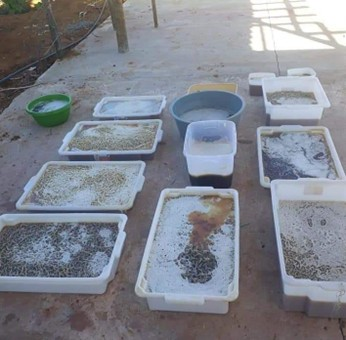
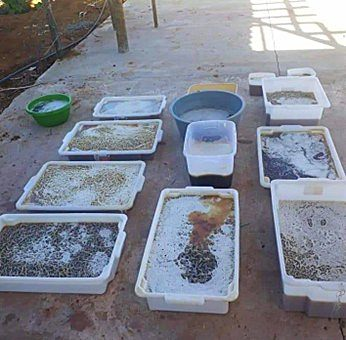
alterções finais no tratamento de imagens

diff --git a/projetos/enfrentamentoaviolencia.html b/projetos/enfrentamentoaviolencia.html
@@ -15,7 +15,7 @@
 <header>
     <div class="container header-container">
         <a href="index.html" class="marca">
-        <img src="img/logo.jpg" alt="Símbolo Espaço Mulher de São Gabriel">
+        <img src="../img/logo.jpg" alt="Símbolo Espaço Mulher de São Gabriel">
         <span class="marca-texto">
         <span class="logo">Espaço Mulher</span>
         <span class="subtitulo">São Gabriel · Ba</span>
@@ -25,7 +25,7 @@
         <nav id="nav">
         <ul class="menu" id="menu">
             <li><button class="menu-fechar" id="menu-fechar" aria-label="Fechar menu">✕</button></li>
-            <li><a href="index.html" class="ativo">Home</a></li>
+            <li><a href="../index.html" class="ativo">Home</a></li>
             <li><a href="subsecoes/quem-somos.html">Quem somos</a></li>
             <li><a href="subsecoes/noticias.html">Notícias</a></li>
             <li><a href="subsecoes/transparencia.html">Transparência</a></li>
@@ -45,7 +45,7 @@
         <div class="projeto-hero">
         <div class="container">
         <span class="eyebrow">Nossos projetos</span>
-        <h1>Enfrentamento a violencia</h1>
+        <h1>Enfrentamento à violencia</h1>
         </div>
         </div>
 
@@ -55,23 +55,20 @@
 
             
             <div class="galeria">
-            <img src="../img/violencia1.jpg" alt="Ação de conscientização">
-            <img src="../img/violencia2.jpg" alt="Roda de escuta">
+            <img src="../img/enfrentamento-camara.jpg" alt="Ação de conscientização">
+            <img src="../img/enfrentamento-ronda-mariadapenha-2.jpg" alt="Roda de escuta">
             </div>
+            <h2>Impacto</h2>
             <div class="impacto-cards">
                 <div class="impacto-card">
-                  <h3>+120</h3>
-                  <p>mulheres atendidas</p>
+                  <h3>+200</h3>
+                  <p> atendimentos realizados</p>
                 </div>
                 <div class="impacto-card">
-                  <h3>+40</h3>
-                  <p>ações de conscientização realizadas</p>
+                  <h3>+60</h3>
+                  <p>encaminhamentos feitos</p>
                 </div>
-              </div>
-            
-            <h2>Impacto</h2>
-            <p><strong>+200</strong> atendimentos realizados</p>
-            <p><strong>+60</strong> encaminhamentos feitos</p>
+            </div>
 
             <h2>Como funciona</h2>
             <p>

diff --git a/subsecoes/noticias.html b/subsecoes/noticias.html
@@ -48,7 +48,7 @@
 
                 <article class="noticia-card">
                 <div class="noticia-imagem">
-                <img src="../img/noticia1.jpg" alt="">
+                <img src="../img/noticia1-acolhimento.jpg" alt="foto com policiais sentados">
                 <span class="noticia-tag">Acolhimento</span>
                 </div>
                 <div class="noticia-conteudo">
@@ -61,7 +61,7 @@
 
                 <article class="noticia-card">
                 <div class="noticia-imagem">
-                <img src="../img/noticia1.jpg" alt="">
+                <img src="../img/noticia2-saude-rosasdosertao.jpg" alt="roda de dança">
                 <span class="noticia-tag">Acolhimento</span>
                 </div>
                 <div class="noticia-conteudo">
@@ -74,7 +74,7 @@
 
                 <article class="noticia-card">
                 <div class="noticia-imagem">
-                <img src="../img/noticia1.jpg" alt="">
+                <img src="../img/noticia3-oficina-bordado.jpg" alt="dança embaixo de uma estrura">
                 <span class="noticia-tag">Acolhimento</span>
                 </div>
                 <div class="noticia-conteudo">

diff --git a/projetos/oficinageracaorenda.html b/projetos/oficinageracaorenda.html
@@ -47,7 +47,7 @@
             <div class="projeto-hero">
               <div class="container">
                 <span class="eyebrow">Nossos projetos</span>
-                <h1>Rosas do Sertão</h1>
+                <h1>Oficinas e geração de renda</h1>
               </div>
             </div>
             <main>
@@ -58,10 +58,12 @@
 
             <!-- GALERIA -->
             <div class="galeria">
-                <img src="../img/geracao1.jpg" alt="Imagem 1">
-                <img src="../img/geracao2.jpg" alt="Imagem 2">
+                <img src="../img/geracao1.png" alt="Imagem 1">
+                <img src="../img/geracao2.png" alt="Imagem 2">
                 <img src="../img/geracao3.jpg" alt="Imagem 3">
             </div>
+            
+            <h2>Impacto</h2>
             <div class="impacto-cards">
                 <div class="impacto-card">
                   <h3>+150</h3>

diff --git a/css/layout.css b/css/layout.css
@@ -10,10 +10,9 @@ header{
 
 .header-container{
     display: flex;
-    justify-content: flex-start;
+    justify-content: space-between;
     align-items: center;
-    padding: 20px 0;
-    gap:24px;
+    padding: 20px 24px;
     flex-wrap: nowrap;
 }
   #nav {

diff --git a/css/secoes.css b/css/secoes.css
@@ -68,7 +68,6 @@
 
 .impacto-card h3{
     font-size: 28px;
-    color: var(--ouropadrao);
 }
 
 .impacto-card p{
